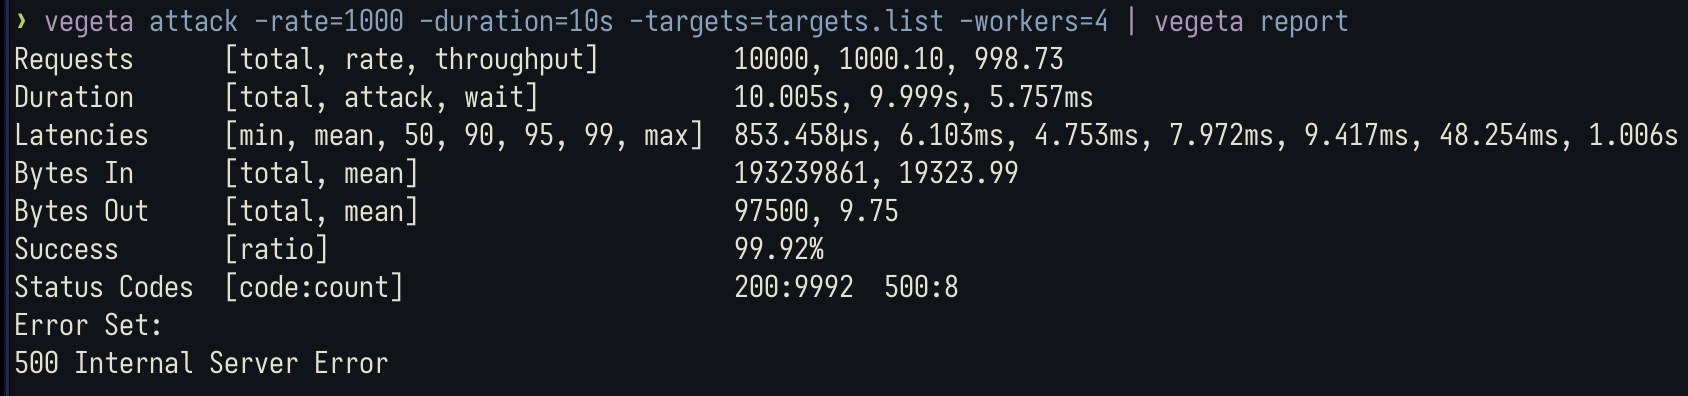
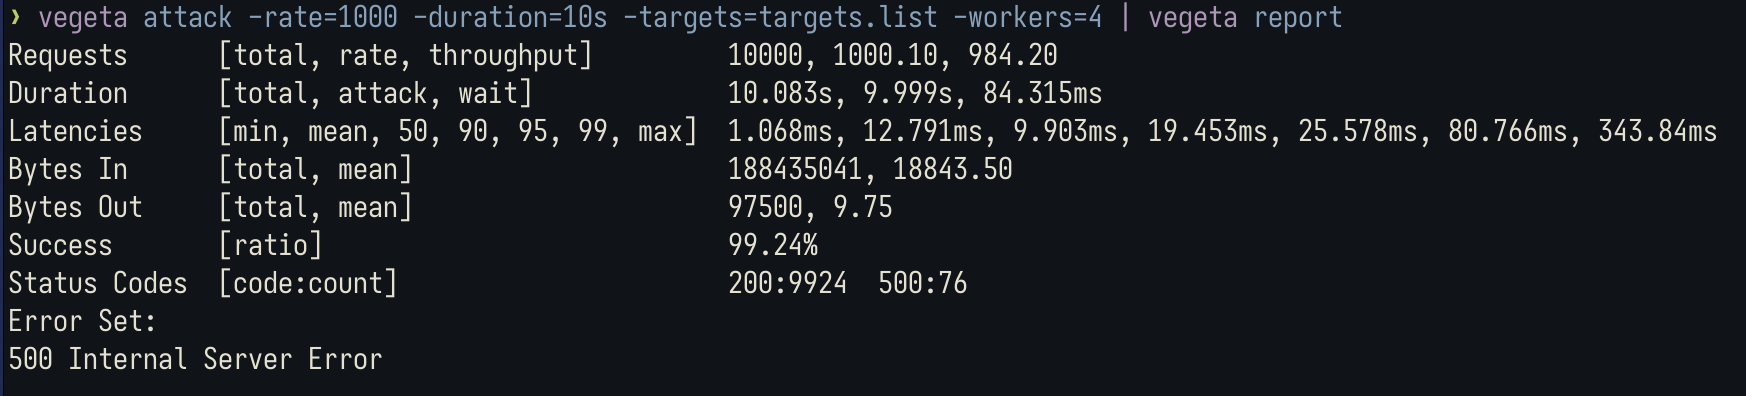
Upload correct stress test results

Changed region(s): [[0.0, 0.0, 1.0, 1.0]]

diff --git a/README.md b/README.md
@@ -75,6 +75,6 @@ make stress-test
 Результаты теста при **1k** RPS:
 
 - среднее время ответа: **12.791ms**
-- успешных ответов: **99.92%**
+- успешных ответов: **99.24%**
 
 ![results](stress-test/stress-test-report.png)
